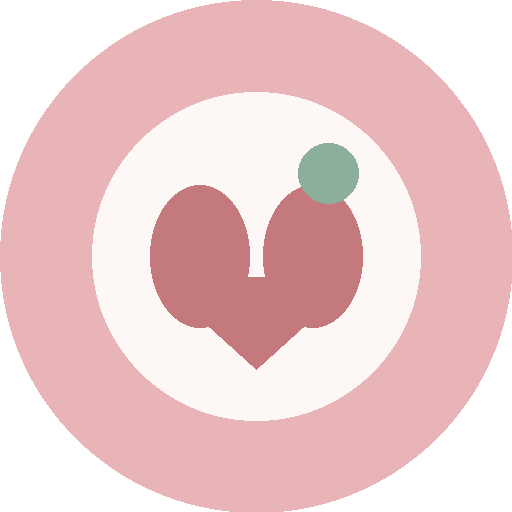
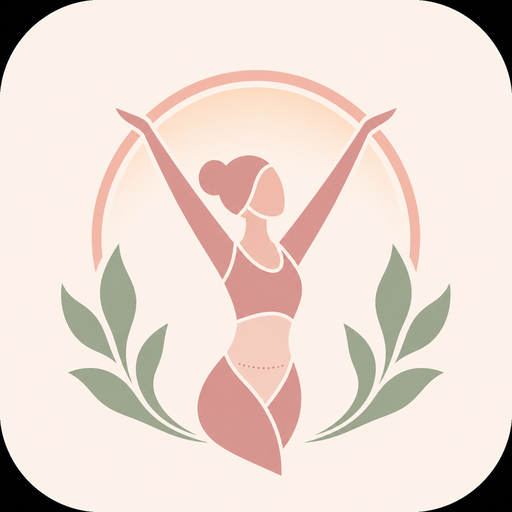
Add files via upload

diff --git a/index.html b/index.html
@@ -3,12 +3,30 @@
 <head>
 <meta charset="UTF-8" />
 <meta name="viewport" content="width=device-width, initial-scale=1, viewport-fit=cover, maximum-scale=1" />
+<meta name="description" content="Your guided fitness planner for C-section recovery — phase-based exercises, journal, and progress tracking." />
 <meta name="theme-color" content="#E8B4B8" />
+<meta name="color-scheme" content="light" />
+
+<!-- PWA: iOS Safari -->
 <meta name="apple-mobile-web-app-capable" content="yes" />
+<meta name="mobile-web-app-capable" content="yes" />
 <meta name="apple-mobile-web-app-status-bar-style" content="default" />
 <meta name="apple-mobile-web-app-title" content="CS Recovery" />
-<link rel="manifest" href="manifest.json" />
-<link rel="apple-touch-icon" href="icon-192.png" />
+<meta name="application-name" content="CS Recovery" />
+
+<!-- Manifest -->
+<link rel="manifest" href="/manifest.json" />
+
+<!-- Icons -->
+<link rel="icon" type="image/png" sizes="64x64" href="/icons/favicon.png" />
+<link rel="icon" type="image/png" sizes="192x192" href="/icons/icon-192.png" />
+<link rel="icon" type="image/png" sizes="512x512" href="/icons/icon-512.png" />
+<link rel="apple-touch-icon" href="/icons/apple-touch-icon.png" />
+<link rel="apple-touch-icon" sizes="152x152" href="/icons/icon-152.png" />
+<link rel="apple-touch-icon" sizes="167x167" href="/icons/icon-167.png" />
+<link rel="apple-touch-icon" sizes="180x180" href="/icons/icon-180.png" />
+<link rel="mask-icon" href="/icons/icon-192.png" color="#E8B4B8" />
+
 <title>C-Section Recovery Planner</title>
 
 <link rel="preconnect" href="https://fonts.googleapis.com">
@@ -1984,14 +2002,40 @@ window.addEventListener('beforeinstallprompt', (e) => {
   e.preventDefault();
   deferredPrompt = e;
   if (!state.installDismissed) {
+    // Show banner after 20s so user sees the app first
     setTimeout(() => {
-      document.getElementById('installBanner').classList.add('visible');
-    }, 30000);
+      if (deferredPrompt) document.getElementById('installBanner').classList.add('visible');
+    }, 20000);
   }
 });
 
+window.addEventListener('appinstalled', () => {
+  deferredPrompt = null;
+  document.getElementById('installBanner').classList.remove('visible');
+  state.installDismissed = true;
+  saveState();
+});
+
 function doInstall() {
-  if (!deferredPrompt) return;
+  if (!deferredPrompt) {
+    // iOS fallback: show install instructions
+    showSheet(`
+      <h2 class="sheet-title">Install on your device</h2>
+      <p class="text-secondary mb-2">On iPhone/iPad (Safari):</p>
+      <ol class="steps-list">
+        <li>Tap the <strong>Share</strong> button at the bottom of the browser</li>
+        <li>Scroll down and tap <strong>Add to Home Screen</strong></li>
+        <li>Tap <strong>Add</strong> in the top right</li>
+      </ol>
+      <p class="text-secondary mt-2 mb-2">On Android (Chrome):</p>
+      <ol class="steps-list">
+        <li>Tap the <strong>⋮</strong> menu button</li>
+        <li>Tap <strong>Install app</strong> or <strong>Add to Home screen</strong></li>
+      </ol>
+      <button class="btn btn-primary btn-block mt-2" onclick="closeSheet()">Got it</button>
+    `);
+    return;
+  }
   deferredPrompt.prompt();
   deferredPrompt.userChoice.then(() => {
     deferredPrompt = null;
@@ -2005,9 +2049,39 @@ function dismissInstall() {
   document.getElementById('installBanner').classList.remove('visible');
 }
 
+// Show install button for iOS users (they don't get beforeinstallprompt)
+function maybeShowIosInstallHint() {
+  const isIos = /iphone|ipad|ipod/i.test(navigator.userAgent) && !window.MSStream;
+  const isStandalone = window.matchMedia('(display-mode: standalone)').matches || window.navigator.standalone;
+  if (isIos && !isStandalone && !state.installDismissed) {
+    setTimeout(() => document.getElementById('installBanner').classList.add('visible'), 25000);
+  }
+}
+maybeShowIosInstallHint();
+
 if ('serviceWorker' in navigator) {
   window.addEventListener('load', () => {
-    navigator.serviceWorker.register('sw.js').catch(() => {});
+    navigator.serviceWorker.register('/sw.js', { scope: '/' })
+      .then(reg => {
+        // Auto-update on new versions
+        reg.addEventListener('updatefound', () => {
+          const nw = reg.installing;
+          if (!nw) return;
+          nw.addEventListener('statechange', () => {
+            if (nw.state === 'installed' && navigator.serviceWorker.controller) {
+              nw.postMessage({ type: 'SKIP_WAITING' });
+            }
+          });
+        });
+      })
+      .catch(err => console.warn('SW registration failed', err));
+
+    let refreshing = false;
+    navigator.serviceWorker.addEventListener('controllerchange', () => {
+      if (refreshing) return;
+      refreshing = true;
+      window.location.reload();
+    });
   });
 }
 

diff --git a/sw.js b/sw.js
@@ -1,15 +1,22 @@
-const CACHE_NAME = 'csrp-v1';
+const CACHE_NAME = 'csrp-v2';
 const ASSETS = [
-  './',
-  './index.html',
-  './manifest.json',
-  './icon-192.png',
-  './icon-512.png'
+  '/',
+  '/index.html',
+  '/manifest.json',
+  '/icons/favicon.png',
+  '/icons/apple-touch-icon.png',
+  '/icons/icon-192.png',
+  '/icons/icon-512.png',
+  '/icons/icon-maskable-192.png',
+  '/icons/icon-maskable-512.png'
 ];
 
 self.addEventListener('install', e => {
   e.waitUntil(
-    caches.open(CACHE_NAME).then(cache => cache.addAll(ASSETS)).catch(() => {})
+    caches.open(CACHE_NAME)
+      .then(cache => Promise.all(
+        ASSETS.map(url => cache.add(url).catch(err => console.warn('SW cache skip', url, err)))
+      ))
   );
   self.skipWaiting();
 });
@@ -18,24 +25,62 @@ self.addEventListener('activate', e => {
   e.waitUntil(
     caches.keys().then(keys =>
       Promise.all(keys.filter(k => k !== CACHE_NAME).map(k => caches.delete(k)))
-    )
+    ).then(() => self.clients.claim())
   );
-  self.clients.claim();
 });
 
 self.addEventListener('fetch', e => {
   const req = e.request;
   if (req.method !== 'GET') return;
+
+  const url = new URL(req.url);
+
+  // For navigation requests: network-first, fall back to cached shell
+  if (req.mode === 'navigate') {
+    e.respondWith(
+      fetch(req)
+        .then(resp => {
+          const clone = resp.clone();
+          caches.open(CACHE_NAME).then(c => c.put('/index.html', clone)).catch(() => {});
+          return resp;
+        })
+        .catch(() => caches.match('/index.html').then(r => r || caches.match('/')))
+    );
+    return;
+  }
+
+  // For same-origin assets: cache-first, then network and cache
+  if (url.origin === self.location.origin) {
+    e.respondWith(
+      caches.match(req).then(cached => {
+        if (cached) return cached;
+        return fetch(req).then(resp => {
+          if (resp && resp.status === 200 && resp.type === 'basic') {
+            const clone = resp.clone();
+            caches.open(CACHE_NAME).then(c => c.put(req, clone)).catch(() => {});
+          }
+          return resp;
+        }).catch(() => cached);
+      })
+    );
+    return;
+  }
+
+  // Cross-origin (fonts, icons CDN, Chart.js): stale-while-revalidate
   e.respondWith(
     caches.match(req).then(cached => {
-      if (cached) return cached;
-      return fetch(req).then(resp => {
-        if (resp && resp.status === 200 && resp.type === 'basic') {
+      const fetchPromise = fetch(req).then(resp => {
+        if (resp && resp.status === 200) {
           const clone = resp.clone();
           caches.open(CACHE_NAME).then(c => c.put(req, clone)).catch(() => {});
         }
         return resp;
-      }).catch(() => caches.match('./index.html'));
+      }).catch(() => cached);
+      return cached || fetchPromise;
     })
   );
+});
+
+self.addEventListener('message', e => {
+  if (e.data && e.data.type === 'SKIP_WAITING') self.skipWaiting();
 });